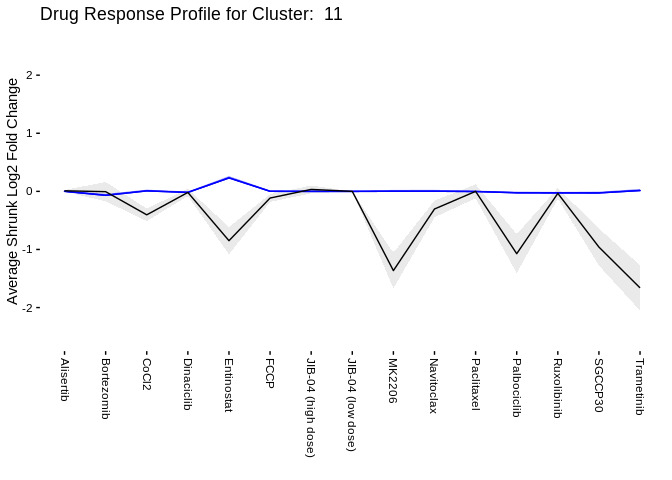
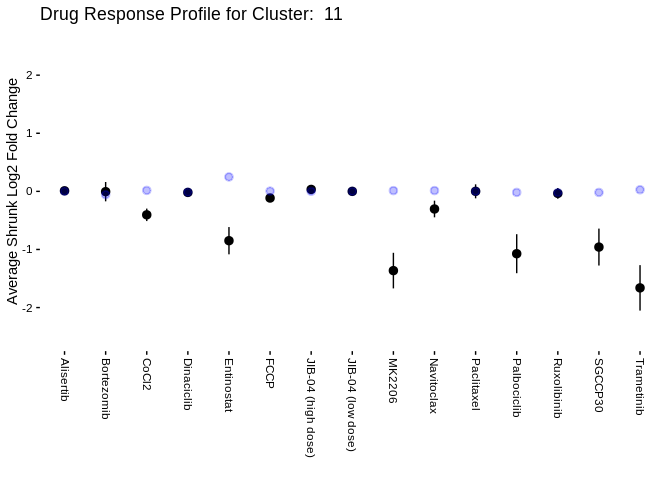
changing figures to use points for drug treatments

diff --git a/analysis/DESeq2_clustering/DESeq2_clustering.md b/analysis/DESeq2_clustering/DESeq2_clustering.md
@@ -57,14 +57,14 @@ cluster_treatment_summary = DESeq_ratios %>%
 for (this_cluster in sort(unique(kinase_hier_clusters$cluster_num))) {
     this_plot = ggplot(cluster_treatment_summary %>% filter(cluster_num == this_cluster),
                  aes(x=treatment,y=mean_log2, group=cluster_num)) +
-        geom_ribbon(aes(ymin=lower_log2,ymax=upper_log2),alpha=0.1) +
+        geom_pointrange(aes(ymin=lower_log2,ymax=upper_log2)) +
         ggtitle(paste('Drug Response Profile for Cluster: ', this_cluster)) +
         
-        geom_ribbon(data = treatment_summary, 
+        geom_pointrange(data = treatment_summary, 
                                 aes(ymin=lower_log2,ymax=lower_log2, group='overall'), color='blue',alpha=0.25) +
-        geom_line(data = treatment_summary, aes(x=treatment,y=mean_log2, group='overall'), color='blue',alpha=0.5) +
+        # geom_line(data = treatment_summary, aes(x=treatment,y=mean_log2, group='overall'), color='blue',alpha=0.5) +
         
-        geom_line() +
+        
         theme_berginski() +
         theme(axis.text.x=element_text(angle = -90, hjust = 0,vjust=0.5)) +
         xlab('') +
